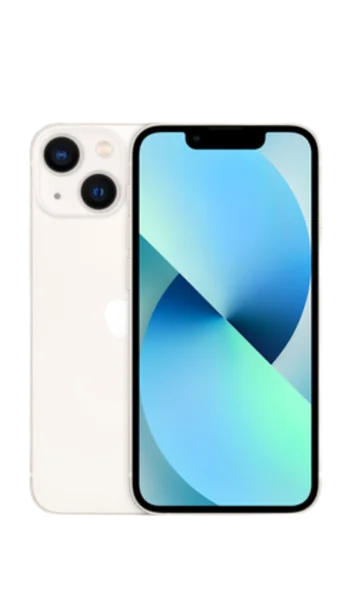
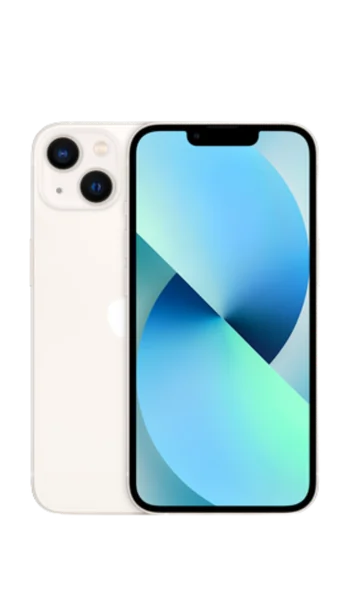
v1.1: iPhone 13 cerrado; 13 Pro y 13 Pro Max (89 de 182)
Claude-Session: https://claude.ai/code/session_01T8bAe4Z7w5hoWuiY5mK5Vw

diff --git a/assets/js/datos/predeterminadas.js b/assets/js/datos/predeterminadas.js
@@ -29,10 +29,12 @@ export const IMAGENES_PREDETERMINADAS = {
   // 12 Pro y 12 Pro Max: cada uno con sus imágenes (las del Pro Max se ven más grandes).
   "iphone-12-pro": { "Grafito": "grafito", "Azul pacífico": "azul-pacifico", "Oro": "oro", "Plata": "plata" },
   "iphone-12-pro-max": { "Grafito": "grafito", "Azul pacífico": "azul-pacifico", "Oro": "oro", "Plata": "plata" },
-  // 13 mini: su juego completo. 13: el suyo, salvo Blanco estelar y (PRODUCT)RED,
-  // que por ahora son los del 13 mini.
+  // 13 y 13 mini: cada uno con su juego completo.
   "iphone-13": { "Blanco estelar": "blanco-estelar", "Medianoche": "medianoche", "Azul": "azul", "Rosa": "rosa", "Verde": "verde", "(PRODUCT)RED": "product-red" },
   "iphone-13-mini": { "Blanco estelar": "blanco-estelar", "Medianoche": "medianoche", "Azul": "azul", "Rosa": "rosa", "Verde": "verde", "(PRODUCT)RED": "product-red" },
+  // 13 Pro y 13 Pro Max: las mismas imágenes hasta que Jared pase un juego para cada uno.
+  "iphone-13-pro": { "Azul sierra": "azul-sierra", "Grafito": "grafito", "Oro": "oro" },
+  "iphone-13-pro-max": { "Azul sierra": "azul-sierra", "Grafito": "grafito", "Oro": "oro" },
   "iphone-se-2": { "Negro": "negro", "(PRODUCT)RED": "product-red", "Blanco": "blanco" },
   "iphone-8": { "Oro": "oro", "Gris espacial": "gris-espacial", "(PRODUCT)RED": "product-red", "Plata": "plata" },
   "iphone-8-plus": { "(PRODUCT)RED": "product-red", "Plata": "plata", "Gris espacial": "gris-espacial", "Oro": "oro" },

diff --git a/DOCUMENTACION.md b/DOCUMENTACION.md
@@ -1564,7 +1564,7 @@ CORREOS_IDIOMA=pt BIN=… bash tests/supabase-local/levantar.sh   # con los corr
 - [ ] **Fuentes legales que no se pudieron abrir** desde el entorno: se verificaron con el buscador y, desde el 22/10/2026, con los informes de Gemini Deep Research que pasó Jared (citas revisadas por coherencia, no contra el original). Ver `legal/FUENTES.md`. Queda para el abogado: la Ley 2300 (franjas, con fuentes secundarias) y si el radicado de PQR con respuesta por WhatsApp o correo cumple con el "seguimiento" (fuente 17).
 - [ ] **Cookies del script de seguimiento externo de GHL:** no se verificaron; si se activa, agregarlo a la Política de cookies.
 - [ ] Probar en GHL los campos de consentimiento y la guía de la sección 12.3.
-- [ ] **Imágenes predeterminadas (v1.1):** Jared las pasa de a 5. Van 83 de 182 combinaciones de modelo y color. Completos: iPhone 7, 7 Plus, 8, 8 Plus, X, XS, XS Max, XR, 11, 11 Pro, 11 Pro Max, SE (2.ª generación), 12, 12 mini, 12 Pro y 12 Pro Max (cada uno con sus imágenes). 13 y 13 mini completos: el 13 mini con su juego; el 13 con el suyo, salvo Blanco estelar y (PRODUCT)RED, que por ahora son los del 13 mini. XS y XS Max: Gris espacial (cada uno con su imagen), Oro y Plata (la misma en los dos). Plata lleva la marca de agua de otra empresa: Jared decidió dejarla así. 12 y 12 mini: cada uno con su juego de imágenes (Jared pasó uno para cada uno). La lista exacta está en `IMAGENES_PREDETERMINADAS` (`assets/js/datos/predeterminadas.js`). El proceso para cada tanda está en la sección 5 de `AI_HANDOFF.md`.
+- [ ] **Imágenes predeterminadas (v1.1):** Jared las pasa de a 5. Van 89 de 182 combinaciones de modelo y color. Completos: iPhone 7, 7 Plus, 8, 8 Plus, X, XS, XS Max, XR, 11, 11 Pro, 11 Pro Max, SE (2.ª generación), 12, 12 mini, 12 Pro y 12 Pro Max (cada uno con sus imágenes). 13 y 13 mini completos, cada uno con su juego. 13 Pro y 13 Pro Max: Azul sierra, Grafito y Oro, las mismas en los dos (faltan Plata y Verde alpino). XS y XS Max: Gris espacial (cada uno con su imagen), Oro y Plata (la misma en los dos). Plata lleva la marca de agua de otra empresa: Jared decidió dejarla así. 12 y 12 mini: cada uno con su juego de imágenes (Jared pasó uno para cada uno). La lista exacta está en `IMAGENES_PREDETERMINADAS` (`assets/js/datos/predeterminadas.js`). El proceso para cada tanda está en la sección 5 de `AI_HANDOFF.md`.
 - [ ] Que el abogado confirme si publicar capturas de clientes (aun tapadas) necesita autorización por escrito, y si alcanza con lo que guarda el panel desde `0034` (canal, fecha y alcance de la autorización, sin datos de la persona; el mensaje o el documento lo guarda la tienda por fuera).
 - [ ] **Reseñas de antes de `0034`:** quedan "sin registrar" hasta que la tienda complete la autorización en su fila. Se siguen mostrando en el sitio mientras tanto.
 - [x] ~~Confirmar los nombres del catálogo~~: confirmados con las fichas de soporte de Apple en español (informes de Gemini, 22/10/2026). Apple anunció el 17e, 18 Pro, 18 Pro Max y Duo.
@@ -1632,6 +1632,14 @@ Otros LLM o herramientas que no ejecuten hooks deben seguir la misma regla a man
 ## 19. Registro de cambios
 
 > La entrada más nueva va arriba. Formato: **fecha · título** — pedido → qué se hizo → archivos → verificación.
+
+### 23/10/2026 · v1.1: iPhone 13 cerrado; 13 Pro y 13 Pro Max (89 de 182)
+
+- **Pedido de Jared:** 5 imágenes (89 a 93).
+- **Hecho:**
+  - 92 (Blanco estelar) y 93 ((PRODUCT)RED) tienen el encuadre del iPhone 13 (291 × 395 px): reemplazan las que el 13 usaba del 13 mini. El 13 queda con su juego completo.
+  - 89 (Azul sierra), 90 (Grafito) y 91 (Oro): iPhone 13 Pro / 13 Pro Max (tres cámaras y los fondos de 2021). Se cargaron en los dos hasta que Jared pase un juego para cada uno. Faltan Plata y Verde alpino.
+- **Verificación:** `node tests/documentacion.mjs` OK, todos los archivos del mapa existen, y en `tests/verificar.cjs` pasan el caso "v1.1: imágenes" y el 11 (sin marca).
 
 ### 23/10/2026 · v1.1: iPhone 13 y 13 mini completos (83 de 182)
 

diff --git a/AI_HANDOFF.md b/AI_HANDOFF.md
@@ -210,7 +210,7 @@ No hay tests fallando ni configuraciones a medias. El código actual funciona y 
       5. Correr el caso "v1.1: imágenes" y el 11 (sin marca) de `verificar.cjs`.
       6. Actualizar en `DOCUMENTACION.md` la cuenta de la sección 17 ("Van N de 182") y la entrada de la 19.
       7. Commit y push.
-    - **Cargadas hasta ahora (83 de 182; 13 y 13 mini completos (el 13 mini con su juego: 79 a 83 y 85; el 13 con 84 y 86 a 88, y Blanco estelar y (PRODUCT)RED prestados del 13 mini hasta que Jared pase los suyos); 12 Pro y 12 Pro Max completos, cada uno con sus imágenes (el Pro Max: 75 a 78; se distingue porque el teléfono ocupa más en el cuadro); el 12 y el 12 mini están completos y cada uno tiene su juego de imágenes (el del 12 mini: imágenes 64 a 66, 68, 69 y 70); ver el detalle en la sección 17 de `DOCUMENTACION.md`):** 12 y 12 mini con Blanco, Negro, Morado y (PRODUCT)RED, las mismas imágenes en los dos. La imagen 57 era del XS (lo confirmó Jared): reemplazó la del XS en Gris espacial; el XS Max conserva la anterior. Antes: completos el iPhone 7, 7 Plus, 8, 8 Plus, X, XR, 11, 11 Pro, 11 Pro Max y SE (2.ª generación); XS y XS Max completos: Gris espacial (cada uno el suyo), Oro y Plata (la misma en los dos). Plata lleva la marca de agua "Swappie": Jared decidió dejarla (23/10/2026). **Fuera de esa decisión, no cargar imágenes con marcas de agua de terceros sin preguntarle.** Criterio: si dos modelos se ven iguales y solo cambia el tamaño (Pro y Pro Max, por ejemplo), la misma imagen va en los dos y se le avisa a Jared.
+    - **Cargadas hasta ahora (89 de 182; 13 y 13 mini completos, cada uno con su juego (13 mini: 79 a 83 y 85; 13: 84, 86 a 88, 92 y 93); 13 Pro y 13 Pro Max con Azul sierra, Grafito y Oro, las mismas en los dos (faltan Plata y Verde alpino); 12 Pro y 12 Pro Max completos, cada uno con sus imágenes (el Pro Max: 75 a 78; se distingue porque el teléfono ocupa más en el cuadro); el 12 y el 12 mini están completos y cada uno tiene su juego de imágenes (el del 12 mini: imágenes 64 a 66, 68, 69 y 70); ver el detalle en la sección 17 de `DOCUMENTACION.md`):** 12 y 12 mini con Blanco, Negro, Morado y (PRODUCT)RED, las mismas imágenes en los dos. La imagen 57 era del XS (lo confirmó Jared): reemplazó la del XS en Gris espacial; el XS Max conserva la anterior. Antes: completos el iPhone 7, 7 Plus, 8, 8 Plus, X, XR, 11, 11 Pro, 11 Pro Max y SE (2.ª generación); XS y XS Max completos: Gris espacial (cada uno el suyo), Oro y Plata (la misma en los dos). Plata lleva la marca de agua "Swappie": Jared decidió dejarla (23/10/2026). **Fuera de esa decisión, no cargar imágenes con marcas de agua de terceros sin preguntarle.** Criterio: si dos modelos se ven iguales y solo cambia el tamaño (Pro y Pro Max, por ejemplo), la misma imagen va en los dos y se le avisa a Jared.
     - **Mecanismo** (ya hecho; no cambia por tanda):
       - En `equipos.fotos` va la ruta `predeterminadas/<slug>/<archivo>.webp`.
       - `urlArchivo()` (demo y Supabase) la sirve desde el sitio y `borrarArchivos()` no la borra.
